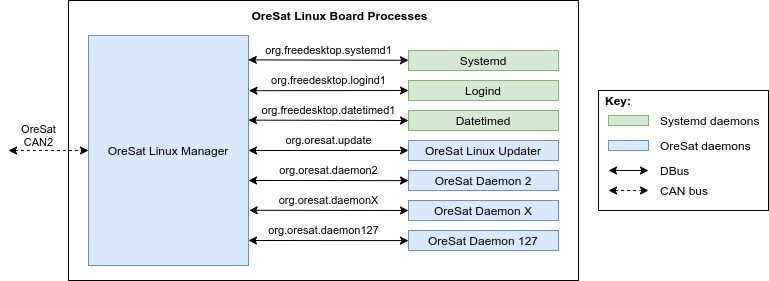
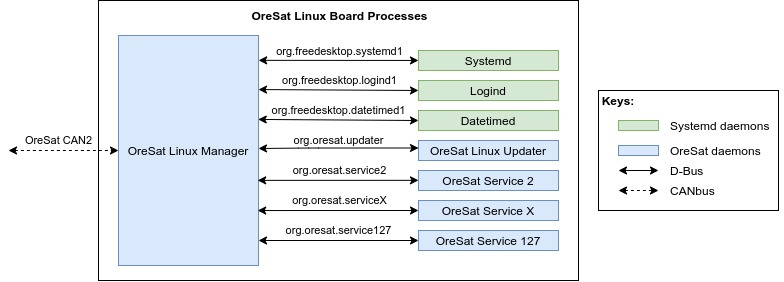
swap datetime standards to Unix time and update OLM diagram

Changed region(s): [[0.0, 0.1139, 1.0, 1.0], [0.3121, 0.0285, 0.5618, 0.0854], [0.0936, 0.0, 0.1248, 0.0285]]

diff --git a/docs/standards/file-transfer.rst b/docs/standards/file-transfer.rst
@@ -7,33 +7,25 @@ filename format.
 
 **File Format**::
 
-   board_keyword_date.fileformat
+   board_keyword_datetime.fileformat
 
 **Format Rules:**
 
 - all lowercase
-- **board**: The board name / acronym; ie gps, st (aka star tracker), live, or cfc.
+- **board**: The board name / acronym; ie gps, st (aka star tracker), live, or
+  cfc.
   This will allow the `C3`_ to know which board to write the file to.
 - **keyword**: A **unique** key for the service for OLM to use when the file is
   being deliver to it; ie If a file has the "update" keyword, OLM will move it
   to location defined by the OreSat Linux Updater app.
-- **date**: The date the archive file was made. Must be in the YYYY-MM-DD-HH-mm-ss
-  format, with the expection of year, all sub fields are always 2 digit intergers.
-
-    - YYYY: year
-    - MM: month
-    - DD: day
-    - HH: hour (24-hour clock)
-    - mm: minute
-    - ss: second
-
+- **datetime**: The interger Unix time the file was made.
 - **.fileformat**: Optional. Can be anything.
-- '_' is only used to seperate the **board**, **keyword**, and **date** fields and
-  nowhere else.
+- '_' is only used to seperate the **board**, **keyword**, and **datetime**
+  fields and nowhere else.
 
 **Example, a update to the GPS board**::
 
-   gps_update_2021-10-03-14-30-27.tar.gz
+   gps_update_161272609.tar.xz
 
 
 .. OreSat repos
